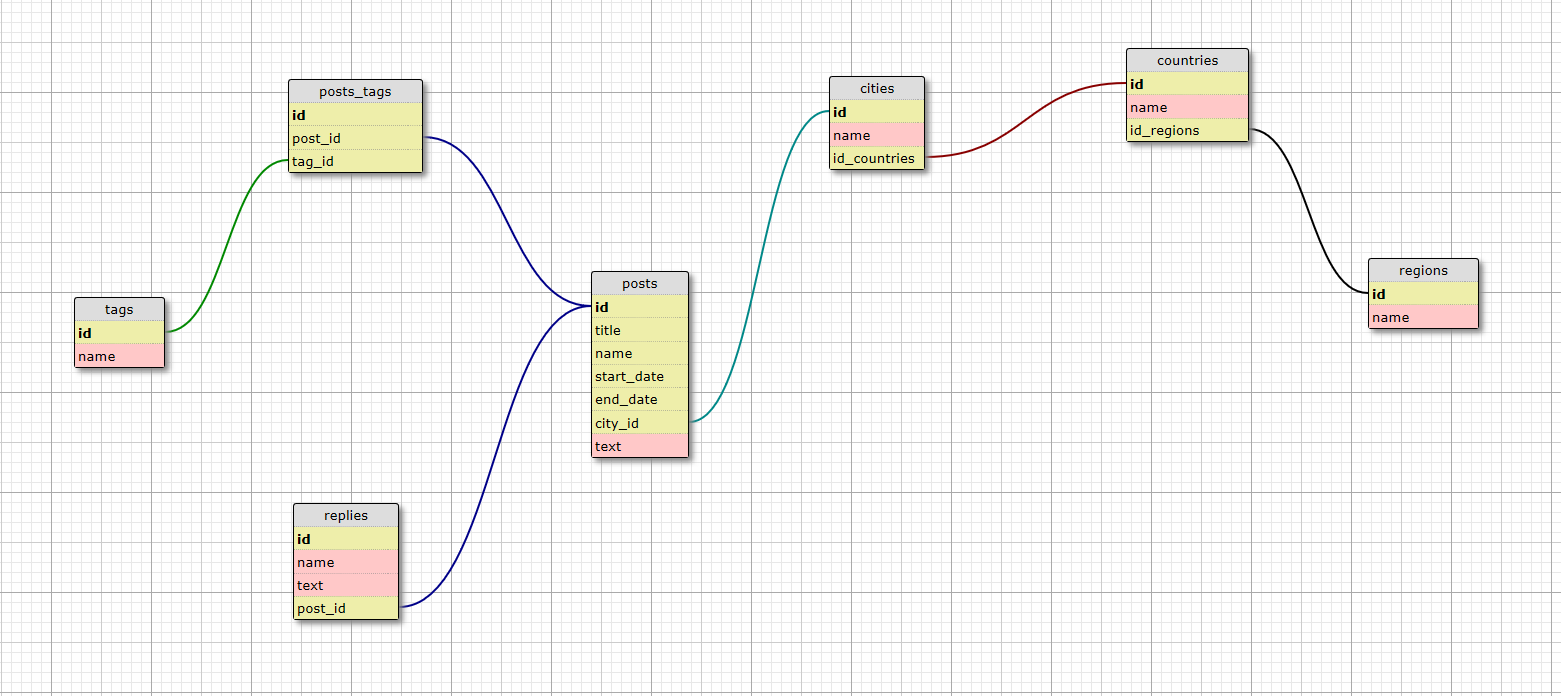
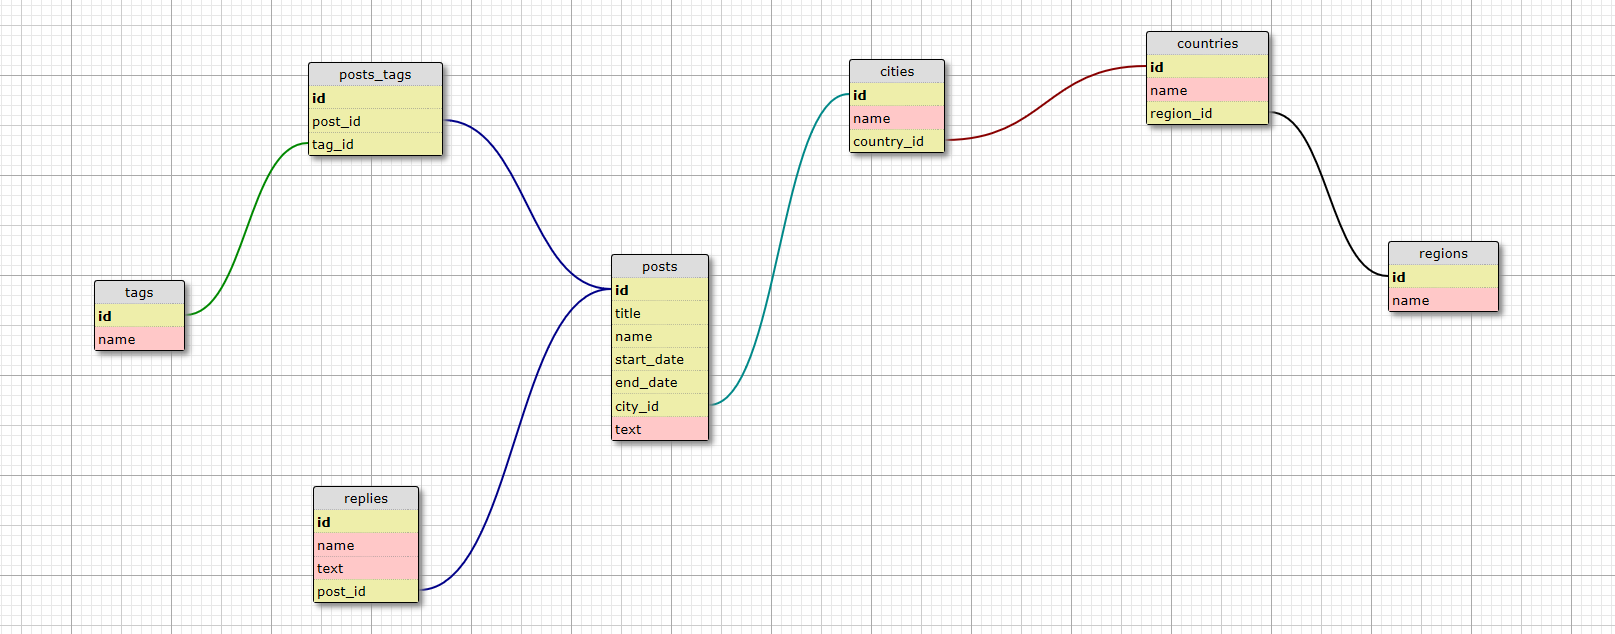
add the basic files updated schema.

diff --git a/TravelForum/Startup.cs b/TravelForum/Startup.cs
@@ -1,0 +1,40 @@
+using Microsoft.AspNetCore.Builder;
+using Microsoft.AspNetCore.Hosting;
+using Microsoft.Extensions.Configuration;
+using Microsoft.Extensions.DependencyInjection;
+
+namespace TravelForum
+{
+  public class Startup
+  {
+    public Startup(IHostingEnvironment env)
+    {
+      var builder = new ConfigurationBuilder() .SetBasePath(env.ContentRootPath) .AddEnvironmentVariables();
+      Configuration = builder.Build();
+    }
+
+    public IConfigurationRoot Configuration { get; }
+
+    public void ConfigureServices(IServiceCollection services)
+    {
+      services.AddMvc();
+    }
+
+    public void Configure(IApplicationBuilder app)
+    {
+      app.UseDeveloperExceptionPage();
+      app.UseStaticFiles();
+      app.UseMvc(routes =>
+      {
+        routes.MapRoute(
+        name: "default",
+        template: "{controller=Home}/{action=Index}/{id?}");
+        });
+    }
+  }
+
+  public static class DBConfiguration
+    {
+        public static string ConnectionString = "server=localhost;user id=root;password=root;port=8889;database=travel_forum;";
+    }
+}

diff --git a/TravelForum/Models/Post.cs b/TravelForum/Models/Post.cs
@@ -1,0 +1,26 @@
+using System.Collections.Generic;
+using MySql.Data.MySqlClient;
+using System;
+
+namespace TravelForum.Models
+{
+  public class Post
+  {
+    private int _id;
+    private string _title;
+    private string _name;
+    private DateTime _startDate;
+    private DateTime _endDate;
+    private int _cityId;
+
+    public Post(string title, string name, DateTime startDate, DateTime endDate, int cityId, int id=0)
+    {
+      _id= id;
+      _title = title;
+      _name = name;
+      _startDate = startDate;
+      _endDate = endDate;
+      _cityId = cityId;
+    }
+  }
+}

diff --git a/TravelForum/Program.cs b/TravelForum/Program.cs
@@ -1,0 +1,21 @@
+using System.IO;
+using Microsoft.AspNetCore.Hosting;
+
+namespace TravelForum
+{
+  public class Program
+  {
+    public static void Main(string[] args)
+    {
+
+      var host = new WebHostBuilder()
+                .UseKestrel()
+                .UseContentRoot(Directory.GetCurrentDirectory())
+                .UseIISIntegration()
+                .UseStartup<Startup>()
+                .Build();
+
+        host.Run();
+    }
+  }
+}

diff --git a/TravelForum/Models/Reply.cs b/TravelForum/Models/Reply.cs
@@ -1,0 +1,22 @@
+using System.Collections.Generic;
+using MySql.Data.MySqlClient;
+using System;
+
+namespace TravelForum.Models
+{
+  public class Reply
+  {
+    private int _id;
+    private string _name;
+    private string _text;
+    private int _postId;
+
+    public Reply(string name, string text, int postId, int id=0)
+    {
+      _id= id;
+      _name = name;
+      _text = text;
+      _postId = postId;
+    }
+  }
+}

diff --git a/TravelForum.Tests/CountryTest.cs b/TravelForum.Tests/CountryTest.cs
@@ -1,0 +1,17 @@
+using System;
+using System.Collections.Generic;
+using MySql.Data.MySqlClient;
+using TravelForum.Models;
+
+
+namespace TravelForum.Tests
+{
+  [TestClass]
+  public class CountryTest
+  {
+    public CountryTest()
+    {
+      DBConfiguration.ConnectionString = "server=localhost;user id=root;password=root;port=8889;database=travel_forum_test;";
+    }
+  }
+}

diff --git a/TravelForum.Tests/RegionTest.cs b/TravelForum.Tests/RegionTest.cs
@@ -1,0 +1,17 @@
+using System;
+using System.Collections.Generic;
+using MySql.Data.MySqlClient;
+using TravelForum.Models;
+
+
+namespace TravelForum.Tests
+{
+  [TestClass]
+  public class RegionTest
+  {
+    public RegionTest()
+    {
+      DBConfiguration.ConnectionString = "server=localhost;user id=root;password=root;port=8889;database=travel_forum_test;";
+    }
+  }
+}

diff --git a/TravelForum.Tests/ReplyTest.cs b/TravelForum.Tests/ReplyTest.cs
@@ -1,0 +1,17 @@
+using System;
+using System.Collections.Generic;
+using MySql.Data.MySqlClient;
+using TravelForum.Models;
+
+
+namespace TravelForum.Tests
+{
+  [TestClass]
+  public class ReplyTest
+  {
+    public ReplyTest()
+    {
+      DBConfiguration.ConnectionString = "server=localhost;user id=root;password=root;port=8889;database=travel_forum_test;";
+    }
+  }
+}

diff --git a/TravelForum.Tests/CityTest.cs b/TravelForum.Tests/CityTest.cs
@@ -1,0 +1,17 @@
+using System;
+using System.Collections.Generic;
+using MySql.Data.MySqlClient;
+using TravelForum.Models;
+
+
+namespace TravelForum.Tests
+{
+  [TestClass]
+  public class CityTest
+  {
+    public CityTest()
+    {
+      DBConfiguration.ConnectionString = "server=localhost;user id=root;password=root;port=8889;database=travel_forum_test;";
+    }
+  }
+}

diff --git a/TravelForum.Tests/PostTest.cs b/TravelForum.Tests/PostTest.cs
@@ -1,0 +1,17 @@
+using System;
+using System.Collections.Generic;
+using MySql.Data.MySqlClient;
+using TravelForum.Models;
+
+
+namespace TravelForum.Tests
+{
+  [TestClass]
+  public class PostTest
+  {
+    public PostTest()
+    {
+      DBConfiguration.ConnectionString = "server=localhost;user id=root;password=root;port=8889;database=travel_forum_test;";
+    }
+  }
+}

diff --git a/TravelForum.Tests/TagTest.cs b/TravelForum.Tests/TagTest.cs
@@ -1,0 +1,17 @@
+using System;
+using System.Collections.Generic;
+using MySql.Data.MySqlClient;
+using TravelForum.Models;
+
+
+namespace TravelForum.Tests
+{
+  [TestClass]
+  public class TagTest
+  {
+    public TagTest()
+    {
+      DBConfiguration.ConnectionString = "server=localhost;user id=root;password=root;port=8889;database=travel_forum_test;";
+    }
+  }
+}

diff --git a/TravelForum/Controllers/HomeController.cs b/TravelForum/Controllers/HomeController.cs
@@ -1,0 +1,17 @@
+using Microsoft.AspNetCore.Mvc;
+using System.Collections.Generic;
+using MySql.Data.MySqlClient;
+using System;
+using TravelForum.Models;
+
+namespace TravelForum.Controllers
+{
+  public class HomeController : Controller
+  {
+    [HttpGet("/")]
+    public ActionResult Index()
+    {
+      return View();
+    }
+  }
+}

diff --git a/TravelForum/Models/Database.cs b/TravelForum/Models/Database.cs
@@ -1,0 +1,14 @@
+using System;
+using MySql.Data.MySqlClient;
+
+namespace TravelForum.Models
+{
+    public class DB
+    {
+        public static MySqlConnection Connection()
+        {
+            MySqlConnection conn = new MySqlConnection(DBConfiguration.ConnectionString);
+            return conn;
+        }
+    }
+}
